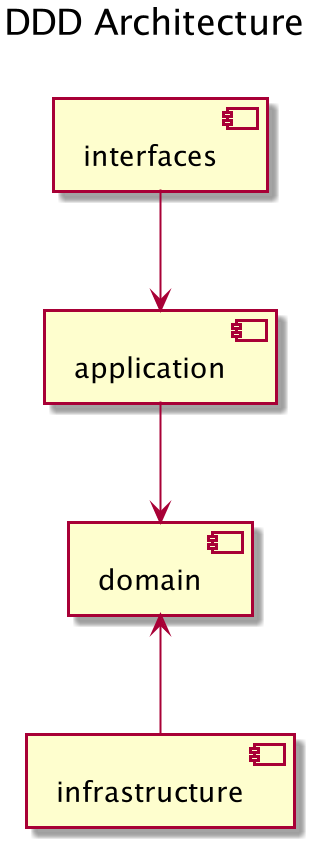
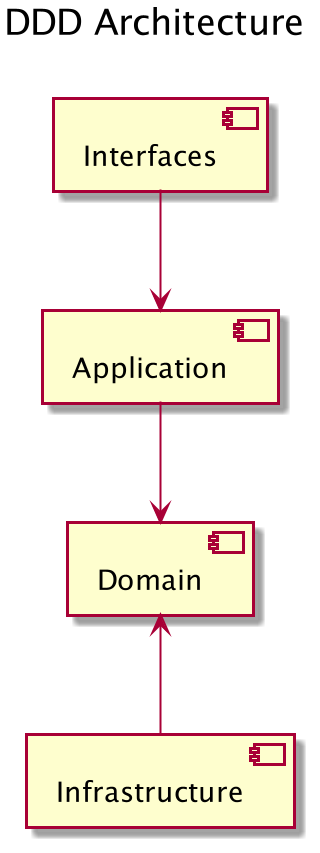
update img

diff --git a/README.md b/README.md
@@ -7,9 +7,9 @@
 + Domain: This is where the domain and business logic of the application is defined.
 + Infrastructure: The infrastructure layer describes technical concerns such as DB access. This layer depends on the domain layer. Therefore, the infrastructure layer implements the interface defined in the repository of the domain layer.
 + Application: This layer serves as a passage between the domain and the interface layer. The sends the requests from the interface layer to the domain layer, which processes it and returns a response.
-+ Interface: This layer holds everything that interacts with other systems, such as web services, RMI interfaces or web applications, and batch processing frontend.
++ Interfaces: This layer holds everything that interacts with other systems, such as web services, RMI interfaces or web applications, and batch processing frontend.
 <div>
-    <img src="docs/img/ddd_architecture.png">
+    <img height="400" src="docs/img/ddd_architecture.png">
 </div>
 
 ## Swagger UI
